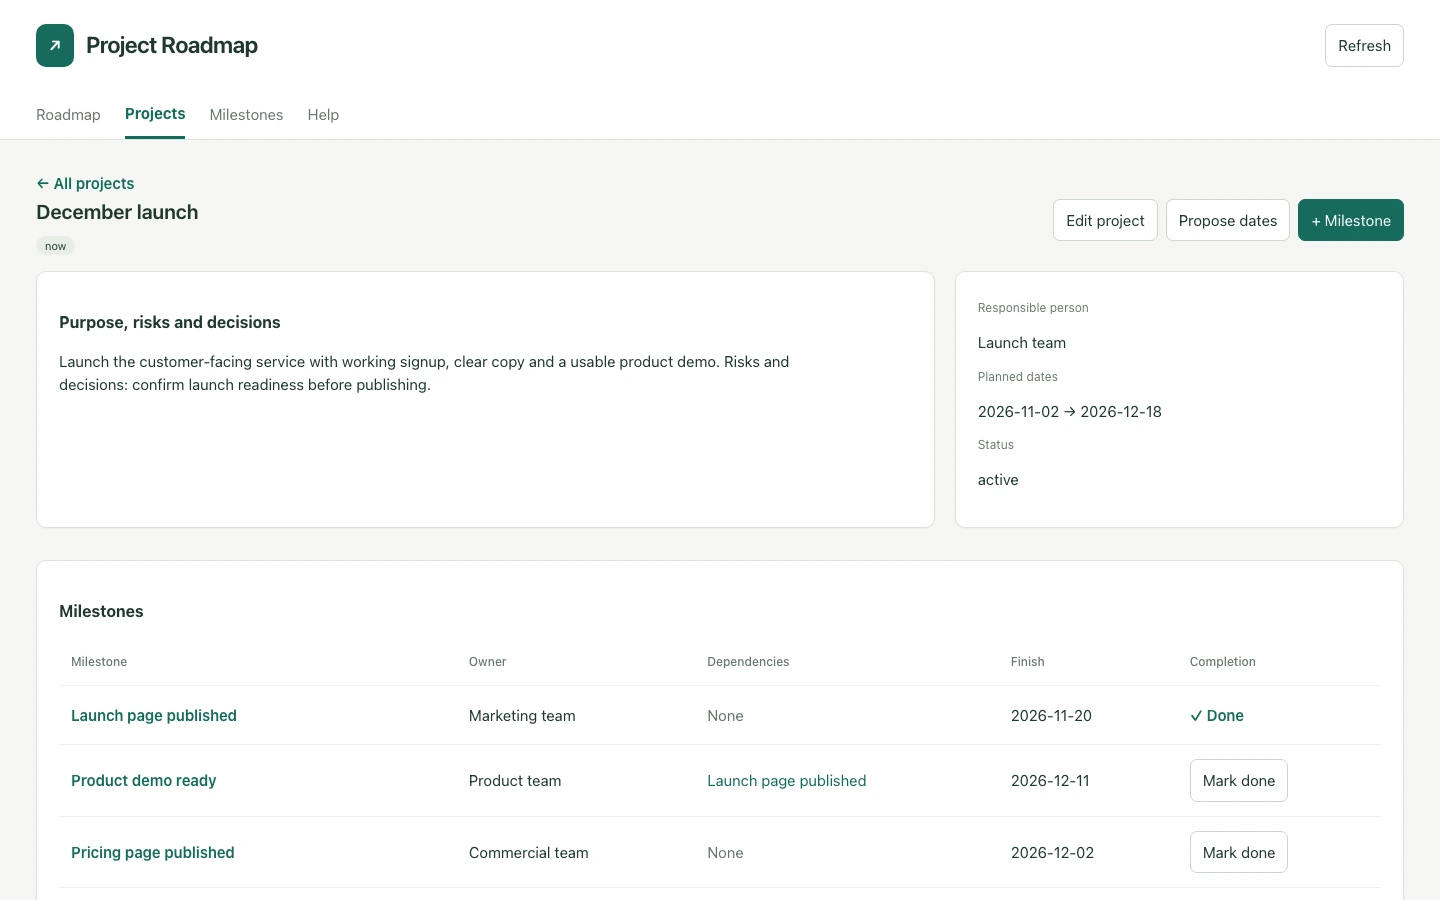
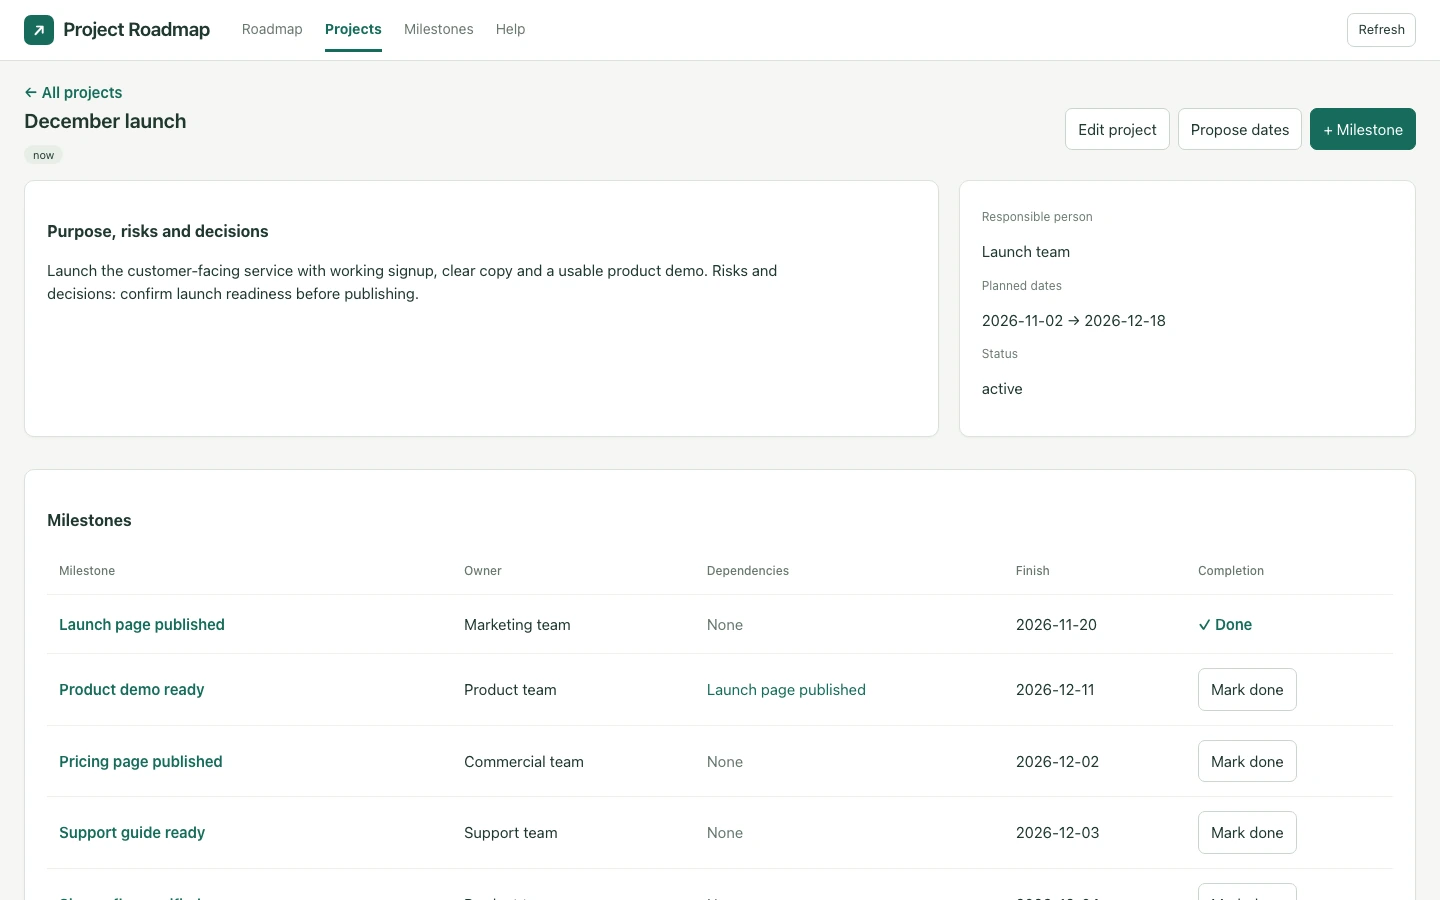
style(project-roadmap): compact the roadmap header and calendar labels

diff --git a/templates/busa-project-roadmap/content/busa-project-roadmap-app/app/js/app.js b/templates/busa-project-roadmap/content/busa-project-roadmap-app/app/js/app.js
@@ -69,7 +69,7 @@ async function load() {
   });
 }
 function shell(content) {
-  root.innerHTML = `<header><div class="top"><div class="brand"><span class="mark" aria-hidden="true">↗</span><div><h1>Project Roadmap</h1>${demo ? "<small>Demo preview</small>" : ""}</div></div><div class="actions"><button data-action="refresh" ${state.busy ? "disabled" : ""}>Refresh</button></div></div><nav aria-label="Sections">${["roadmap", "projects", "milestones", "help"].map((screen) => `<button data-screen="${screen}" class="${state.screen === screen ? "active" : ""}" ${state.screen === screen ? 'aria-current="page"' : ""}>${screen[0].toUpperCase() + screen.slice(1)}</button>`).join("")}</nav></header><main>${content}<p class="budget">${state.projects.length} projects · ${state.milestones.length} milestones loaded.</p>${Object.entries(
+  root.innerHTML = `<header class="app-header"><div class="brand"><span class="mark" aria-hidden="true">↗</span><div><h1>Project Roadmap</h1>${demo ? "<small>Demo preview</small>" : ""}</div></div><nav aria-label="Sections">${["roadmap", "projects", "milestones", "help"].map((screen) => `<button data-screen="${screen}" class="${state.screen === screen ? "active" : ""}" ${state.screen === screen ? 'aria-current="page"' : ""}>${screen[0].toUpperCase() + screen.slice(1)}</button>`).join("")}</nav><div class="actions"><button data-action="refresh" ${state.busy ? "disabled" : ""}>Refresh</button></div></header><main>${content}<p class="budget">${state.projects.length} projects · ${state.milestones.length} milestones loaded.</p>${Object.entries(
     state.cursors,
   )
     .filter(([, cursor]) => cursor)
@@ -77,7 +77,7 @@ function shell(content) {
     .join("")}</main>`;
 }
 function intro(heading, description) {
-  return `<div class="intro"><div><div class="eyebrow">Team planning</div><h2>${heading}</h2><p class="muted">${description}</p></div><div class="actions"><button data-new="milestones">+ Milestone</button><button class="primary" data-new="projects">+ Project</button></div></div>`;
+  return `<div class="intro"><div><h2>${heading}</h2><p class="muted">${description}</p></div><div class="actions"><button data-new="milestones">+ Milestone</button><button class="primary" data-new="projects">+ Project</button></div></div>`;
 }
 function render() {
   if (state.screen === "roadmap") shell(roadmap());
@@ -111,10 +111,17 @@ function roadmap() {
         ["now", "next", "later"].indexOf(a.fields.lane || "later") -
         ["now", "next", "later"].indexOf(b.fields.lane || "later"),
     );
+  const quarters = [];
+  for (let offset = 0; offset < 84; offset++) {
+    const day = date(addDays(first, offset));
+    const label = `Q${Math.floor(day.getUTCMonth() / 3) + 1} ${day.getUTCFullYear()}`;
+    if (quarters.at(-1)?.label === label) quarters.at(-1).days++;
+    else quarters.push({ label, days: 1 });
+  }
   const conflicts = issues().filter((i) => i.kind === "conflict");
   return (
-    intro("Roadmap", "Projects and milestones, across weeks and quarters.") +
-    `<div class="toolbar"><div class="actions"><label for="lane" class="sr-only">Roadmap horizon</label><select id="lane"><option value="all">Now, Next & Later</option>${["now", "next", "later"].map((l) => `<option ${state.lane === l ? "selected" : ""} value="${l}">${l[0].toUpperCase() + l.slice(1)}</option>`).join("")}</select><button data-action="expand-all">Expand all</button><button data-action="collapse-all">Collapse all</button></div><div class="actions"><button data-shift="-84" aria-label="Previous twelve weeks">←</button><button data-action="today">Today</button><button data-shift="84" aria-label="Next twelve weeks">→</button><small>${e(first)} — ${addDays(first, 83)}</small></div></div>${conflicts.length ? `<div class="warning"><b>${conflicts.length} dependency conflict${conflicts.length === 1 ? "" : "s"} need attention.</b> Review the impact before moving dates. <button class="text-button" data-action="conflicts">View conflicts →</button></div>` : ""}<div class="timeline"><div class="timeline-inner"><div class="timeline-row"><div class="row-label"><b>Projects & milestones</b></div><div class="week-grid">${columns.map((w) => `<span><b>${e(w.quarter)}</b>${e(w.label)}<br>${new Intl.DateTimeFormat("en", { month: "short", day: "numeric", timeZone: "UTC" }).format(date(w.day))}</span>`).join("")}</div></div>${
+    `<div class="roadmap-heading"><h2>Roadmap</h2><div class="actions"><button data-new="milestones">+ Milestone</button><button class="primary" data-new="projects">+ Project</button></div></div>` +
+    `<div class="toolbar"><div class="actions"><label for="lane" class="sr-only">Roadmap horizon</label><select id="lane"><option value="all">Now, Next & Later</option>${["now", "next", "later"].map((l) => `<option ${state.lane === l ? "selected" : ""} value="${l}">${l[0].toUpperCase() + l.slice(1)}</option>`).join("")}</select><button data-action="expand-all">Expand all</button><button data-action="collapse-all">Collapse all</button></div><div class="actions"><button data-shift="-84" aria-label="Previous twelve weeks">←</button><button data-action="today">Today</button><button data-shift="84" aria-label="Next twelve weeks">→</button><small>${e(first)} — ${addDays(first, 83)}</small></div></div>${conflicts.length ? `<div class="warning"><b>${conflicts.length} dependency conflict${conflicts.length === 1 ? "" : "s"}.</b> <button class="text-button" data-action="conflicts">View conflicts →</button></div>` : ""}<div class="timeline"><div class="timeline-inner"><div class="timeline-row"><div class="row-label"><b>Projects & milestones</b></div><div class="calendar-header"><div class="quarter-grid">${quarters.map((q) => `<span style="grid-column:span ${q.days}">${e(q.label)}</span>`).join("")}</div><div class="week-grid">${columns.map((w) => `<span><b>${e(w.label.split(" · ")[0])}</b> ${new Intl.DateTimeFormat("en", { month: "short", day: "numeric", timeZone: "UTC" }).format(date(w.day))}</span>`).join("")}</div></div></div>${
       visible
         .map(
           (p) =>

diff --git a/templates/busa-project-roadmap/content/busa-project-roadmap-app/app/roadmap.css b/templates/busa-project-roadmap/content/busa-project-roadmap-app/app/roadmap.css
@@ -530,3 +530,139 @@ textarea {
   min-width: 160px;
   max-width: 260px;
 }
+
+/* Compact workspace shell; the timeline gets the remaining screen space. */
+.app-header {
+  display: flex;
+  align-items: center;
+  gap: 32px;
+  padding: 8px 24px;
+}
+.app-header .brand {
+  gap: 9px;
+  flex-shrink: 0;
+}
+.app-header .mark {
+  padding: 4px 9px;
+  border-radius: 7px;
+}
+.app-header h1 {
+  font-size: 19px;
+  letter-spacing: -0.4px;
+}
+.app-header small {
+  font-size: 11px;
+}
+.app-header nav {
+  margin: 0;
+  gap: 22px;
+}
+.app-header nav button {
+  padding: 10px 0;
+  font-size: 14px;
+  border-bottom: 3px solid transparent;
+}
+.app-header nav button.active {
+  border-bottom-color: #176b5b;
+}
+.app-header > .actions {
+  margin-left: auto;
+}
+main {
+  padding: 16px 24px;
+}
+.roadmap-heading {
+  display: flex;
+  justify-content: space-between;
+  align-items: center;
+  gap: 12px;
+}
+.roadmap-heading h2 {
+  margin: 0;
+  font-size: 19px;
+}
+.roadmap-heading button,
+.toolbar button,
+.toolbar select,
+.app-header > .actions button {
+  padding: 6px 10px;
+  font-size: 13px;
+  min-height: 34px;
+}
+.toolbar {
+  padding: 0;
+  border: 0;
+  margin: 10px 0;
+  gap: 8px;
+}
+.warning {
+  padding: 8px 12px;
+  margin: 10px 0;
+  font-size: 13px;
+}
+.calendar-header {
+  min-width: 0;
+}
+.quarter-grid {
+  display: grid;
+  grid-template-columns: repeat(84, minmax(0, 1fr));
+  background: #f1f5f0;
+  border-bottom: 1px solid #e2e7e0;
+}
+.quarter-grid span {
+  padding: 3px 8px;
+  font-size: 11px;
+  font-weight: 600;
+  border-right: 1px solid #dce2db;
+  white-space: nowrap;
+}
+.calendar-header .week-grid span {
+  padding: 6px 8px;
+  white-space: nowrap;
+}
+.calendar-header .week-grid b {
+  display: inline;
+  margin-right: 3px;
+}
+@media (max-width: 700px) {
+  .app-header {
+    display: grid;
+    grid-template-columns: 1fr auto;
+    gap: 0 10px;
+    padding: 8px 12px 0;
+  }
+  .app-header h1 {
+    font-size: 18px;
+  }
+  .app-header nav {
+    grid-row: 2;
+    grid-column: 1 / -1;
+    justify-content: space-between;
+    gap: 12px;
+  }
+  .app-header > .actions {
+    grid-row: 1;
+    grid-column: 2;
+  }
+  main {
+    padding: 12px;
+  }
+  .roadmap-heading {
+    gap: 8px;
+  }
+  .roadmap-heading h2 {
+    font-size: 18px;
+  }
+  .roadmap-heading .actions {
+    gap: 6px;
+  }
+  .roadmap-heading button {
+    padding: 6px 8px;
+  }
+  .toolbar {
+    gap: 8px;
+  }
+  .toolbar > .actions {
+    gap: 6px;
+  }
+}
